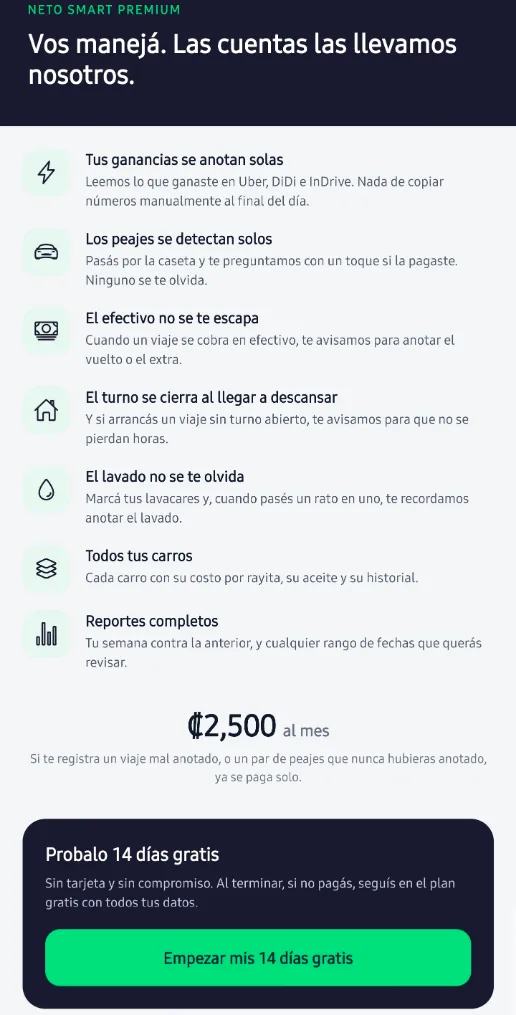
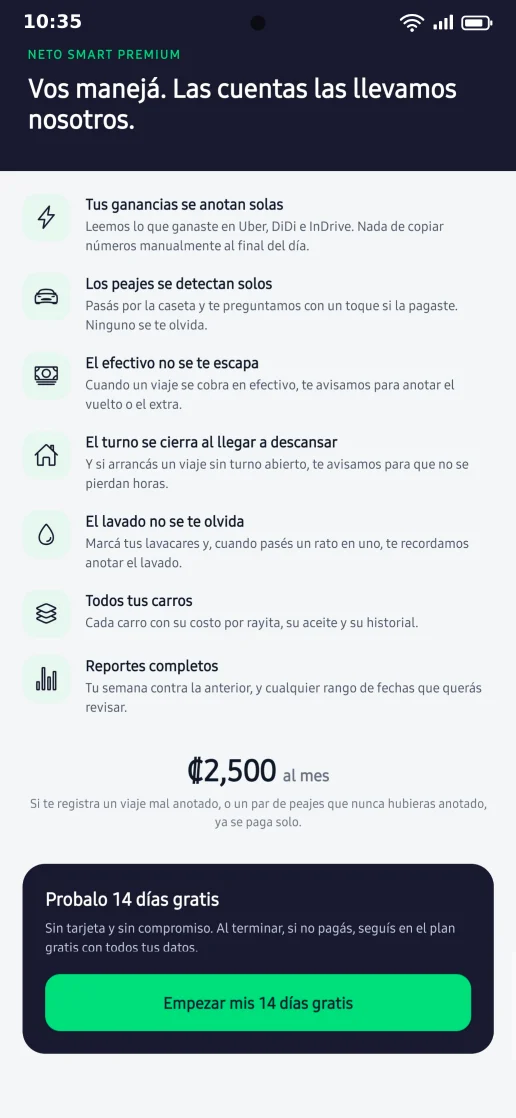
Capturas con forma de teléfono y barra de estado de Android
Las tres capturas pasan a la misma proporción (1440 por 3120) para que
Mi garaje y Premium queden simétricas y no parezcan tablets. Se dibuja
la barra de estado (hora, señal, wifi, batería) y se anota en PENDIENTES.
Marcos un poco más anchos en el celular para que el texto se lea.

Claude-Session: https://claude.ai/code/session_014iuPz6QnCKuBdxeEqMQoS4

diff --git a/src/styles/global.css b/src/styles/global.css
@@ -602,7 +602,7 @@ section.apretada { padding: 2rem 0; }
   /* El anillo de afuera es para que en modo oscuro el marco no se pierda
      contra el fondo, que es casi del mismo azul. */
   box-shadow: 0 0 0 1px var(--borde), 0 16px 40px rgba(16, 16, 28, 0.28);
-  width: min(276px, 100%);
+  width: min(300px, 100%);
   box-sizing: border-box;
   margin: 0 auto;
 }
@@ -629,7 +629,7 @@ section.apretada { padding: 2rem 0; }
 @media (min-width: 600px) {
   .pantallas { grid-template-columns: repeat(2, minmax(0, 1fr)); }
 }
-.pantallas figure { margin: 0; width: 100%; max-width: 276px; }
+.pantallas figure { margin: 0; width: 100%; max-width: 300px; }
 .pantallas figcaption {
   margin-top: 0.7rem;
   text-align: center;

diff --git a/PENDIENTES.md b/PENDIENTES.md
@@ -229,6 +229,14 @@ está en el repositorio**: solo está la versión tapada. Siguen visibles las
 marcas y modelos, los costos y el resto de la pantalla. Si preferís que no se
 vean barras, sacá la captura de nuevo con un carro de prueba y la reemplazamos.
 
+**Las tres capturas tienen la misma forma de teléfono (1440 por 3120) y la barra
+de estado de Android está dibujada, no capturada.** Para que se vean como un
+teléfono real, se les agregó arriba la hora, la señal, el wifi, la batería y el
+punto de la cámara. Es decoración: la hora (10:35) y la batería son fijas, no
+vienen de tu teléfono. Lo de adentro de cada pantalla sí es real. Si algún día
+sacás las capturas con la barra de estado incluida, se pueden reemplazar tal
+cual y se quita el dibujo.
+
 **La captura de «Hoy».** Es la pantalla de inicio con el turno ya cerrado: el
 neto en grande, el bruto, las horas, lo que sale por hora, lo de cada app y los
 gastos desglosados. Se tapó con una barra sólida **solo tu nombre** del saludo
